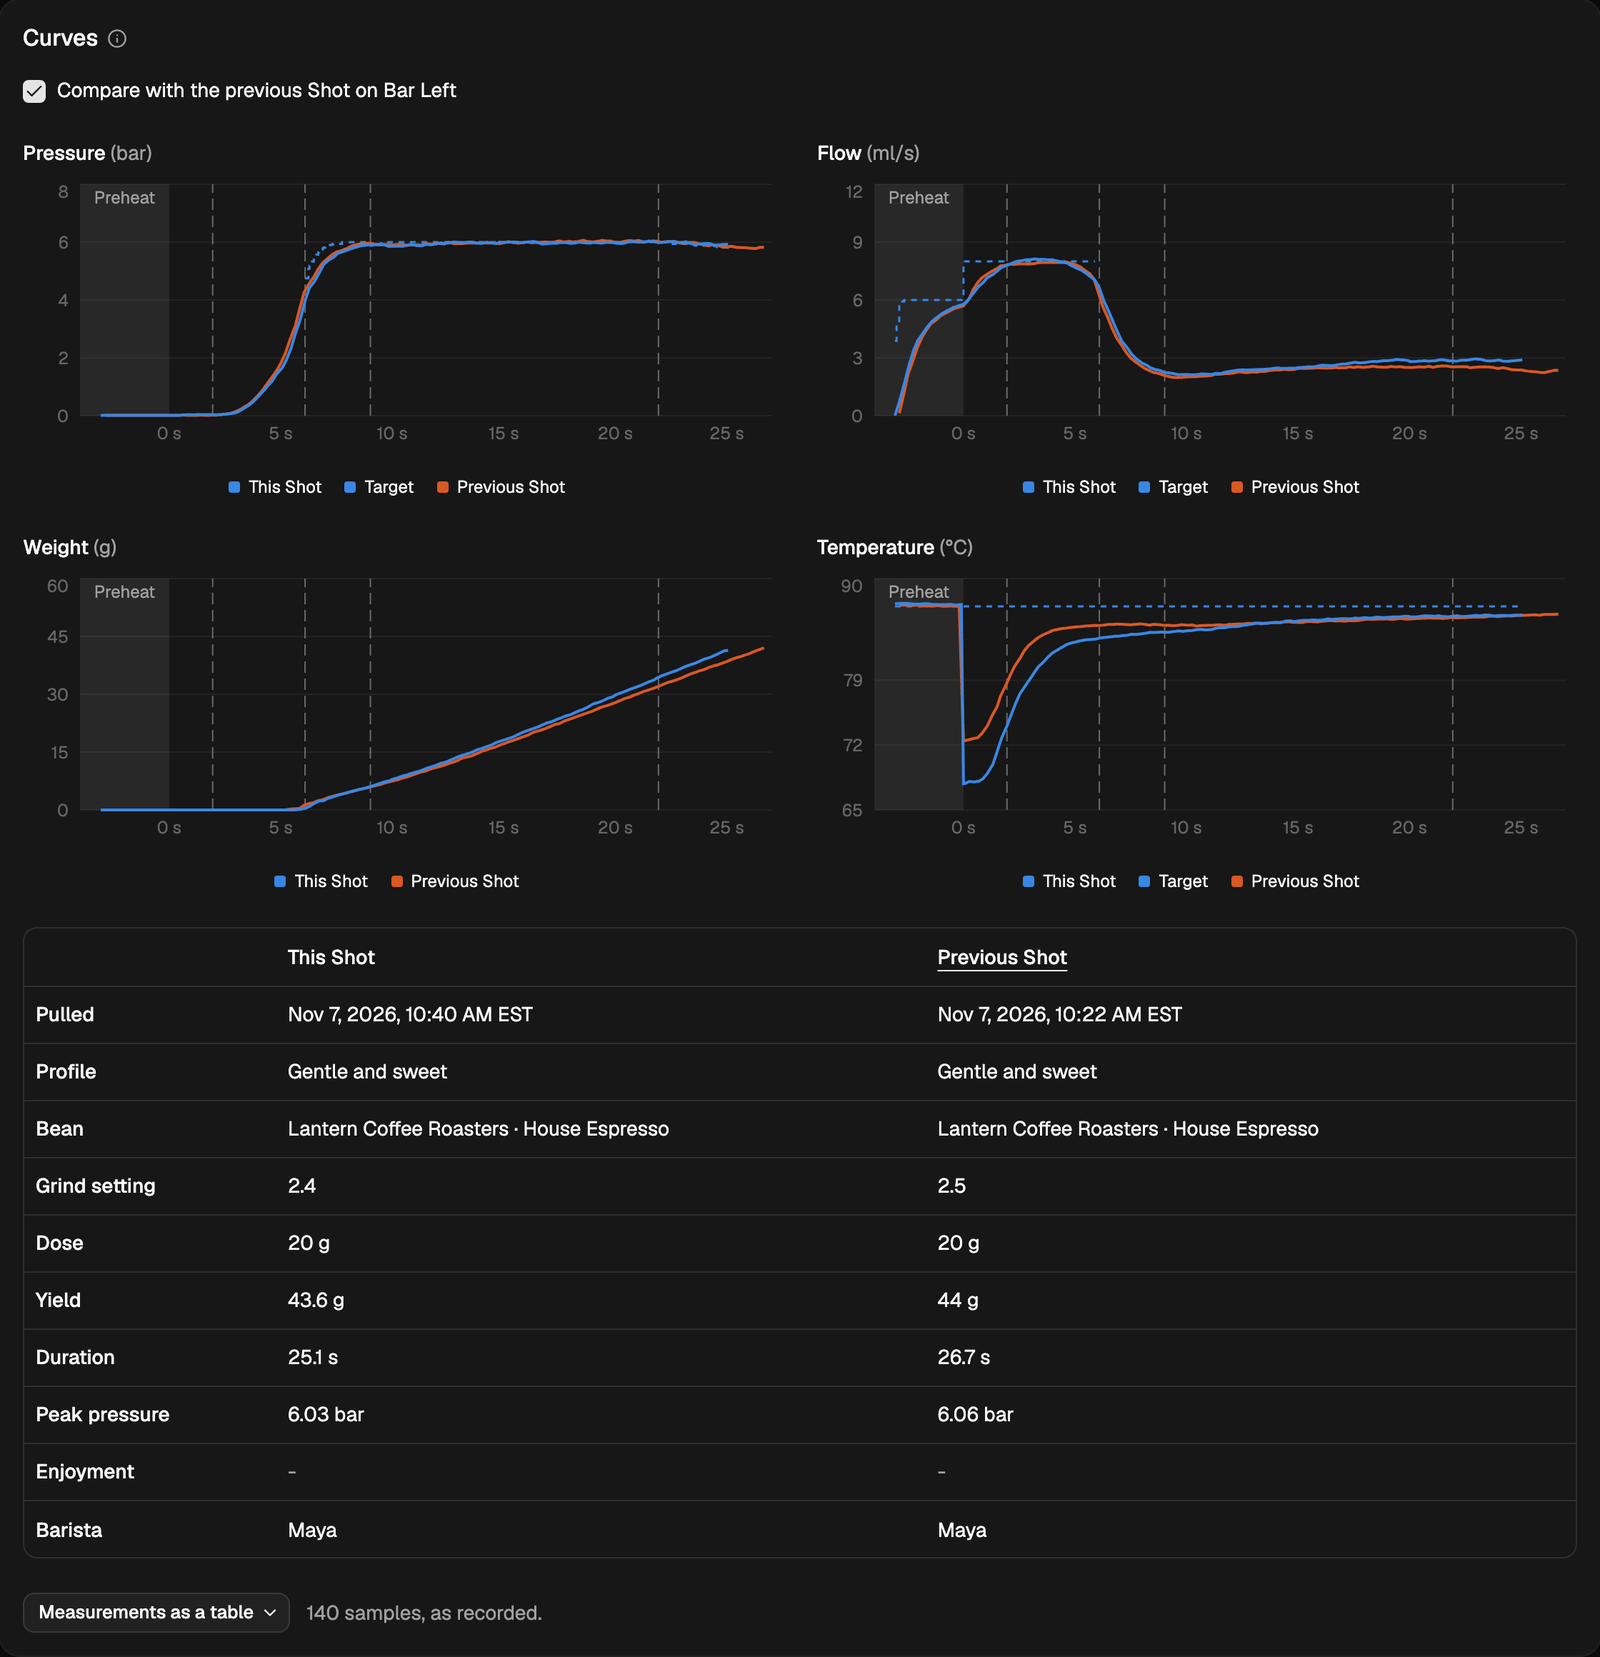
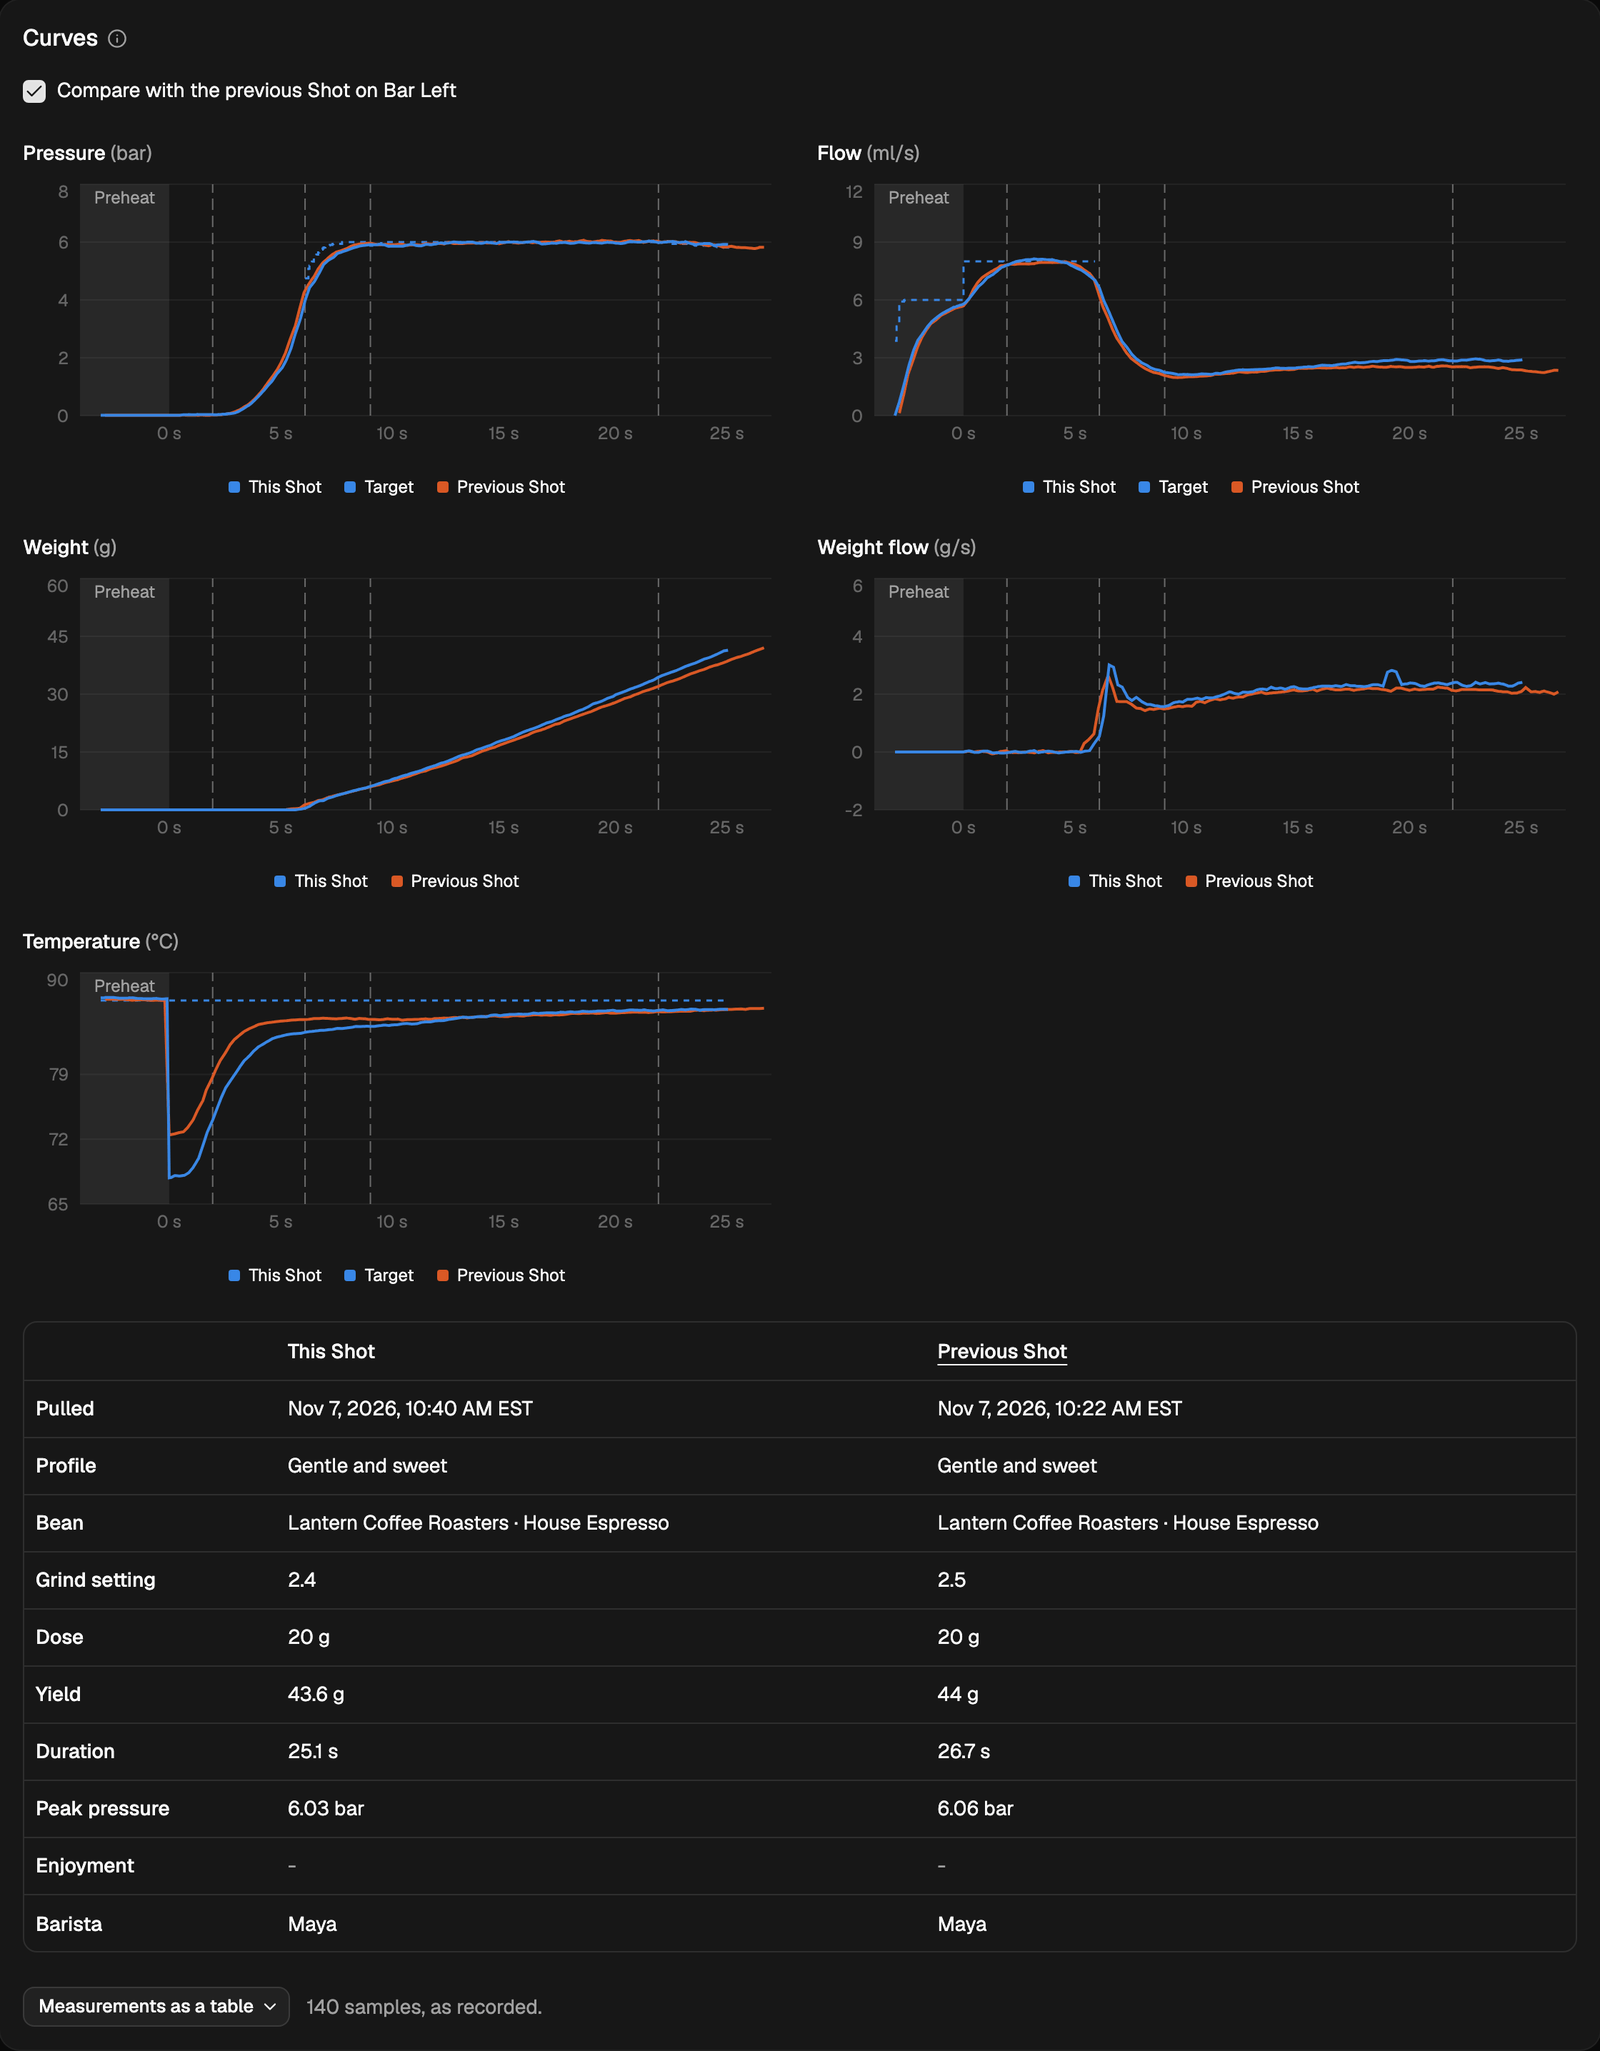
Release v1.8.0
Sets the version to 1.8.0, rebuilds the plugin, and moves the Unreleased
notes in UPGRADING.md under 1.8.0. The README and AGENTS.md name v1.8.0 as
the release that finishes Milestone 6, with v1.7.0.

The README's Connecting an assistant lists what an assistant can read now,
and its Shot screenshot is regenerated with the Weight flow chart. PLUGIN.md
says each Workflow change names the plugin's own write, a Settings Edit's
read-back names the edit, the sensor calibration is read daily, and plugins
and Skins are sent.

diff --git a/decent-sync.reaplugin/plugin.js b/decent-sync.reaplugin/plugin.js
@@ -5305,7 +5305,7 @@ var __decentSync = (() => {
           protocolVersion: PROTOCOL_VERSION,
           wireRevision: WIRE_REVISION,
           token: this.settings.token,
-          pluginVersion: "1.7.1",
+          pluginVersion: "1.8.0",
           decaidVersion: identity.decaidVersion,
           tabletId,
           connectionId: identity.connectionId,
@@ -5644,9 +5644,9 @@ var __decentSync = (() => {
     let connection;
     return {
       id: "decent-sync.reaplugin",
-      version: "1.7.1",
+      version: "1.8.0",
       onLoad(settings) {
-        host.log(`Decent Sync ${"1.7.1"} loaded (protocol ${PROTOCOL_VERSION})`);
+        host.log(`Decent Sync ${"1.8.0"} loaded (protocol ${PROTOCOL_VERSION})`);
         const read = readSettings(settings ?? {});
         if (!read.ok) {
           host.log(`Not connecting: ${read.problems.join("; ")}. Enter them in this plugin's settings.`);

diff --git a/README.md b/README.md
@@ -105,7 +105,7 @@ Each server has one owner: a household, or a business with all of its sites.
 
 <picture>
   <source media="(prefers-color-scheme: dark)" srcset="docs/images/shot-dark.png">
-  <img src="docs/images/shot-light.png" alt="A Shot's pressure, flow, weight and temperature curves over the previous Shot on its Machine, with a table comparing their grind setting, dose, yield, duration and peak pressure">
+  <img src="docs/images/shot-light.png" alt="A Shot's pressure, flow, weight, weight flow and temperature curves over the previous Shot on its Machine, with a table comparing their grind setting, dose, yield, duration and peak pressure">
 </picture>
 
 ### Machines, from anywhere
@@ -137,6 +137,7 @@ Connect Claude, ChatGPT or another MCP app, and ask in plain words:
 - "How many shots did the cafe pull yesterday, and with which beans?"
 - "Have shots of the new Kenya batch been running faster than last week's?"
 - "What is each machine at the cafe doing right now?"
+- "How was the left machine dialed in this morning, and how did its shots run?"
 - "Add this week's roast of the house blend at the cafe."
 - "Put the new espresso recipe in slot 2."
 
@@ -258,16 +259,18 @@ The app sends you to the server to sign in and approve it, either to read only
 or to read and change. It then acts as you, within what your account may do. A
 Viewer's app can only read.
 
-An assistant can read Locations, Machines with their activity and settings,
-then or now, Settings Edits, each Machine's Settings History, Shots, Steam Records, and the Library with each item's history
-and Conflicts. It can create and edit Beans, Bean Batches, Grinders, Baskets,
-Tools and Recipes, Archive and restore Library items, change what a Location
-offers, put Recipes in Recipe Slots and copy them to other Locations, use or
-dismiss a Conflict's value, make Settings Edits, and move Machines between
-Locations. An Admin's assistant can also turn a Machine's sharing on or off,
-and create and edit Locations. Nothing an assistant does grants access or
-deletes anything for good. Each Library change and Settings Edit it makes is
-recorded as "*account*, through *app*".
+An assistant can read Locations, Machines with their settings, then or now,
+and their activity, each dial-in change included, each Machine's scale,
+sensors, paired devices, plugins and Skins, Settings Edits and Settings
+History, Shots with their curves and the profile steps they ran, Steam
+Records, and the Library with each item's history and Conflicts. It can create
+and edit Beans, Bean Batches, Grinders, Baskets, Tools and Recipes, Archive and
+restore Library items, change what a Location offers, put Recipes in Recipe
+Slots and copy them to other Locations, use or dismiss a Conflict's value, make
+Settings Edits, and move Machines between Locations. An Admin's assistant can
+also turn a Machine's sharing on or off, and create and edit Locations. Nothing
+an assistant does grants access or deletes anything for good. Each Library
+change and Settings Edit it makes is recorded as "*account*, through *app*".
 
 Each answer is kept small enough for Claude and ChatGPT to read whole: a long
 list comes a page at a time, and very long text, such as a Shot's notes, may be
@@ -292,7 +295,7 @@ Milestones 1 to 6 are released. See [all releases](https://github.com/loganfulle
 | 3. [Recipes and equipment](https://github.com/loganfuller/decent-sync/milestone/3) | DYE2 Recipes, Baskets and Tools, Recipe Slots, and each Machine's Loaded Recipe. | [#134](https://github.com/loganfuller/decent-sync/issues/134) | v1.0.0 |
 | 4. [Machine management](https://github.com/loganfuller/decent-sync/milestone/4) | Settings Edits from the management interface, then each Machine's Live View. No remote commands such as sleep and wake. | [#220](https://github.com/loganfuller/decent-sync/issues/220), [#258](https://github.com/loganfuller/decent-sync/issues/258) | [v1.2.0](https://github.com/loganfuller/decent-sync/releases/tag/v1.2.0), [v1.5.0](https://github.com/loganfuller/decent-sync/releases/tag/v1.5.0) |
 | 5. [Rolling upgrades](https://github.com/loganfuller/decent-sync/milestone/5) | Each release runs beside the previous one. | [#277](https://github.com/loganfuller/decent-sync/issues/277) | [v1.4.0](https://github.com/loganfuller/decent-sync/releases/tag/v1.4.0) |
-| 6. [Assistants](https://github.com/loganfuller/decent-sync/milestone/6) | AI assistants through an MCP endpoint, each approved as a Connected App. | [#405](https://github.com/loganfuller/decent-sync/issues/405) | [v1.7.0](https://github.com/loganfuller/decent-sync/releases/tag/v1.7.0) |
+| 6. [Assistants](https://github.com/loganfuller/decent-sync/milestone/6) | AI assistants through an MCP endpoint, each approved as a Connected App, then answers sized for them, with more of each Machine and Shot. | [#405](https://github.com/loganfuller/decent-sync/issues/405) | [v1.7.0](https://github.com/loganfuller/decent-sync/releases/tag/v1.7.0), [v1.8.0](https://github.com/loganfuller/decent-sync/releases/tag/v1.8.0) |
 | 7. Analytics | Views across Machines and Locations, and grouping by Barista. | | Planned |
 | 8. Stock | Deliveries, transfers, counts, and the coffee each Shot uses. | | Planned |
 

diff --git a/docs/PLUGIN.md b/docs/PLUGIN.md
@@ -69,7 +69,8 @@ The machine's own settings are read every 60 seconds, or every poll interval
 if that is longer, and whenever a Workflow change writes them. These reads
 happen only while the machine is idle, asleep or out of water. A read that
 falls due during a Shot, steaming, hot water, a flush or cleaning waits until
-the machine is idle again.
+the machine is idle again. The sensors' calibration is read as the plugin
+connects and once a day, also only while the machine is idle.
 
 ## Updates
 
@@ -99,14 +100,16 @@ So a tablet can take a plugin update before or after its server is upgraded.
 - **Shots and Steam Records.** Each time the plugin loads, it sends the server
   an index of the tablet's records, and the server asks for any it lacks.
   Nothing needs keeping on the tablet.
-- **Workflow changes and machine state transitions.** The plugin keeps those
-  the server hasn't yet acknowledged in Decaid's plugin storage. So disabling
-  the plugin, changing its settings or restarting Decaid while the server is
-  unreachable loses none of them. The next load sends them first, unless the
+- **Workflow changes and machine state transitions.** Each Workflow change
+  says whether one of the plugin's own writes made it, such as loading a
+  Recipe. The plugin keeps those the server hasn't yet acknowledged in
+  Decaid's plugin storage. So disabling the plugin, changing its settings or
+  restarting Decaid while the server is unreachable loses none of them. The next load sends them first, unless the
   token was changed in the meantime. During a long outage, the plugin keeps
   the newest 2,000, up to 2 Mi characters, and drops the oldest.
-- **The library, settings, paired devices, scale and sensors**, as each poll
-  finds them.
+- **The library, settings, paired devices, scale, sensors, plugins and
+  Skins**, as each poll finds them. A setting a Settings Edit changed is sent
+  naming the edit, for the Machine's Settings History.
 
 ## What it writes to the tablet
 

diff --git a/AGENTS.md b/AGENTS.md
@@ -1,6 +1,6 @@
 # Agent Instructions
 
-Decent Sync is one repository containing the plugin, server and management interface. Milestones 1 to 3 are built in it and released in v1.0.0, Milestone 5 in v1.4.0, Milestone 4 in v1.5.0 (its Settings Edits from v1.2.0, and its Live View from v1.5.0), and Milestone 6 in v1.7.0.
+Decent Sync is one repository containing the plugin, server and management interface. Milestones 1 to 3 are built in it and released in v1.0.0, Milestone 5 in v1.4.0, Milestone 4 in v1.5.0 (its Settings Edits from v1.2.0, and its Live View from v1.5.0), and Milestone 6 in v1.8.0 (its MCP endpoint and Connected Apps from v1.7.0, and its response budget and fuller answers from v1.8.0).
 
 ## Before implementation
 

diff --git a/UPGRADING.md b/UPGRADING.md
@@ -15,6 +15,8 @@ Releasing).
 
 ## Unreleased
 
+## 1.8.0
+
 ### Settings History starts with this release
 
 The server now keeps each Machine's Settings History: every change its
